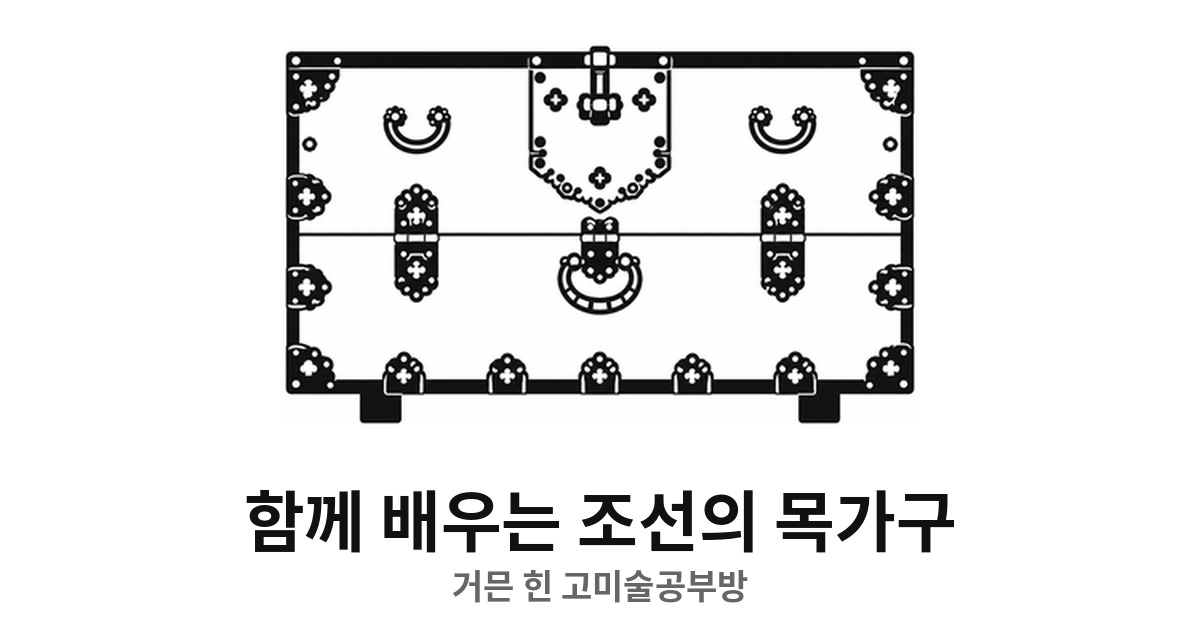
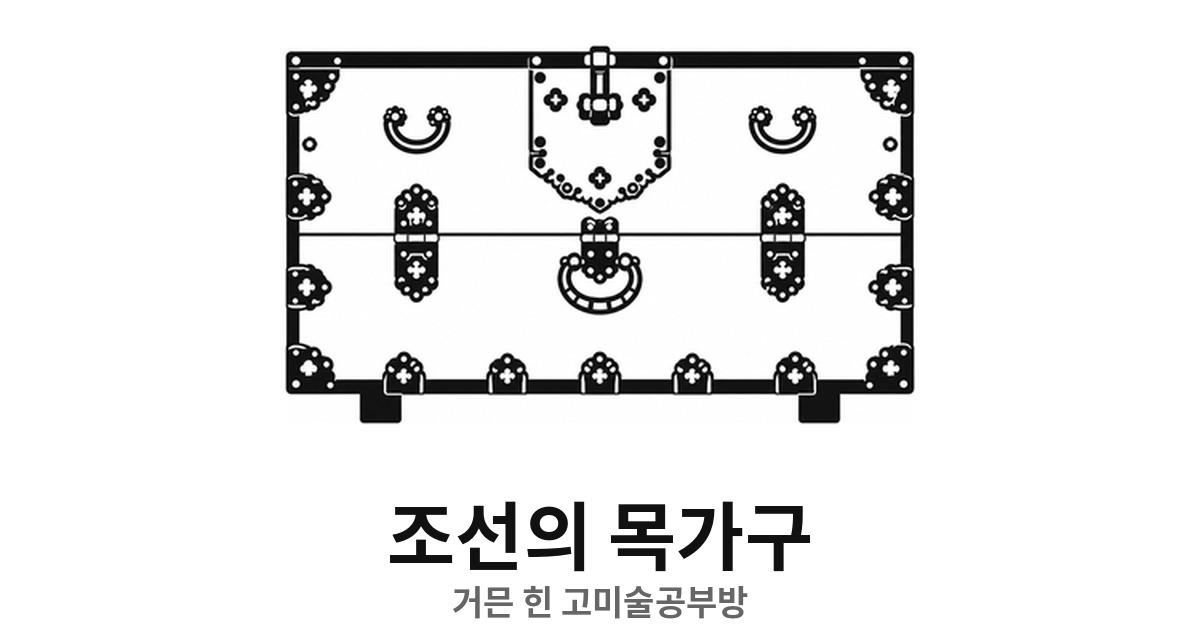
공유 아이콘을 말풍선으로, 문구를 '조선의 목가구'로 변경, 대표 이미지 글씨 갱신
Claude-Session: https://claude.ai/code/session_014QqcAYWeySegPN8N9V778j

Changed region(s): [[0.185, 0.754, 0.8017, 0.9952]]

diff --git a/index.html b/index.html
@@ -7,8 +7,8 @@
 <meta name="color-scheme" content="light">
 <title>조선의 목가구</title>
 <meta property="og:type" content="website">
-<meta property="og:title" content="함께 배우는 조선의 목가구">
-<meta property="og:image" content="https://jungmono.github.io/mokgagu/og.jpg?v=2">
+<meta property="og:title" content="조선의 목가구">
+<meta property="og:image" content="https://jungmono.github.io/mokgagu/og.jpg?v=3">
 <meta property="og:image:width" content="1200">
 <meta property="og:image:height" content="630">
 <meta property="og:url" content="https://jungmono.github.io/mokgagu/">
@@ -174,7 +174,7 @@ body{position:relative}
 
   <footer>
     <span class="ft-mark"><span class="ew-blk">거믄</span><span class="ew-wht">힌</span></span>도록 사진과 캡션의 저작권은 각 소장처·발행처에 있으며, 무단 복제·재배포를 금합니다.
-    <div class="ft-upd"><a class="chip" id="site-share" href="#" style="text-decoration:none"><span>📤</span><span>공유</span></a><a class="chip" href="glossary.html" style="text-decoration:none"><span>📖</span><span>용어 사전</span></a><span class="chip"><span>🗓</span><span>마지막 업데이트 <b id="updated">—</b></span></span><span class="chip ft-visit" title="한 기기는 하루에 한 번만 셉니다"><span>👣</span><span>오늘 <b id="v-today">—</b> · 누적 <b id="v-total">—</b></span></span></div>
+    <div class="ft-upd"><a class="chip" id="site-share" href="#" style="text-decoration:none"><span><svg viewBox="0 0 24 24" width="16" height="16" aria-hidden="true" style="vertical-align:-2px"><path fill="currentColor" d="M12 3C6.5 3 2 6.6 2 11c0 2.8 1.8 5.3 4.6 6.7l-1 3.6c-.1.4.3.6.6.4l4.3-2.8c.5.1 1 .1 1.5.1 5.5 0 10-3.6 10-8S17.5 3 12 3z"/></svg></span><span>공유</span></a><a class="chip" href="glossary.html" style="text-decoration:none"><span>📖</span><span>용어 사전</span></a><span class="chip"><span>🗓</span><span>마지막 업데이트 <b id="updated">—</b></span></span><span class="chip ft-visit" title="한 기기는 하루에 한 번만 셉니다"><span>👣</span><span>오늘 <b id="v-today">—</b> · 누적 <b id="v-total">—</b></span></span></div>
   </footer>
 </div>
 

diff --git a/share.js b/share.js
@@ -18,11 +18,11 @@ function nameOf(dlg){
 }
 function attach(dlg){
   if(dlg.querySelector('.shr'))return;
-  var b=document.createElement('button');b.className='shr';b.type='button';b.textContent='공유';
+  var b=document.createElement('button');b.className='shr';b.type='button';b.innerHTML='<svg viewBox="0 0 24 24" width="15" height="15" aria-hidden="true" style="vertical-align:-2px"><path fill="currentColor" d="M12 3C6.5 3 2 6.6 2 11c0 2.8 1.8 5.3 4.6 6.7l-1 3.6c-.1.4.3.6.6.4l4.3-2.8c.5.1 1 .1 1.5.1 5.5 0 10-3.6 10-8S17.5 3 12 3z"/></svg> 공유';
   b.onclick=function(ev){ev.stopPropagation();
     var n=nameOf(dlg),pg=location.pathname.split('/').pop()||'index.html';
-    var url=BASE+pg,t='함께 배우는 조선의 목가구'+(n?' — '+n:'');
-    share('함께 배우는 조선의 목가구',t,url);};
+    var url=BASE+pg,t='조선의 목가구'+(n?' — '+n:'');
+    share('조선의 목가구',t,url);};
   dlg.appendChild(b);
 }
 function scan(){document.querySelectorAll('dialog[open]').forEach(attach);}
@@ -30,6 +30,6 @@ new MutationObserver(scan).observe(document.documentElement,{attributes:true,sub
 document.addEventListener('DOMContentLoaded',function(){
   scan();
   var s=document.getElementById('site-share');
-  if(s)s.onclick=function(e){e.preventDefault();share('함께 배우는 조선의 목가구','함께 배우는 조선의 목가구 — 거믄 힌 고미술공부방',BASE);};
+  if(s)s.onclick=function(e){e.preventDefault();share('조선의 목가구','조선의 목가구 — 거믄 힌 고미술공부방',BASE);};
 });
 })();

diff --git a/install.html b/install.html
@@ -8,7 +8,7 @@
 <meta property="og:type" content="website">
 <meta property="og:title" content="조선의 목가구 — 앱 설치">
 <meta property="og:description" content="누르면 홈 화면에 안궤 아이콘이 생겨요. 우리 목가구 도록을 앱처럼 열어 보세요.">
-<meta property="og:image" content="https://jungmono.github.io/mokgagu/og.jpg?v=2">
+<meta property="og:image" content="https://jungmono.github.io/mokgagu/og.jpg?v=3">
 <meta property="og:url" content="https://jungmono.github.io/mokgagu/install.html">
 <link rel="manifest" href="manifest.webmanifest">
 <meta name="theme-color" content="#111111">
